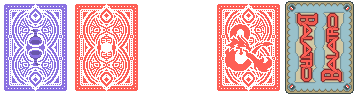
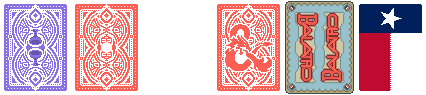
Add Lone Star Deck

diff --git a/README.md b/README.md
@@ -9,8 +9,8 @@ Current contents:
 - 31 Jokers
 - 25 Charms (a new kind of thing in the shop)
 - 20 Tags
-- 5 Decks
-- 5 [Deck Sleeves](https://github.com/larswijn/CardSleeves)
+- 6 Decks
+- 6 [Deck Sleeves](https://github.com/larswijn/CardSleeves)
 - 6 Blinds
 - 3 Challenges
 - 1 Tarot Card
